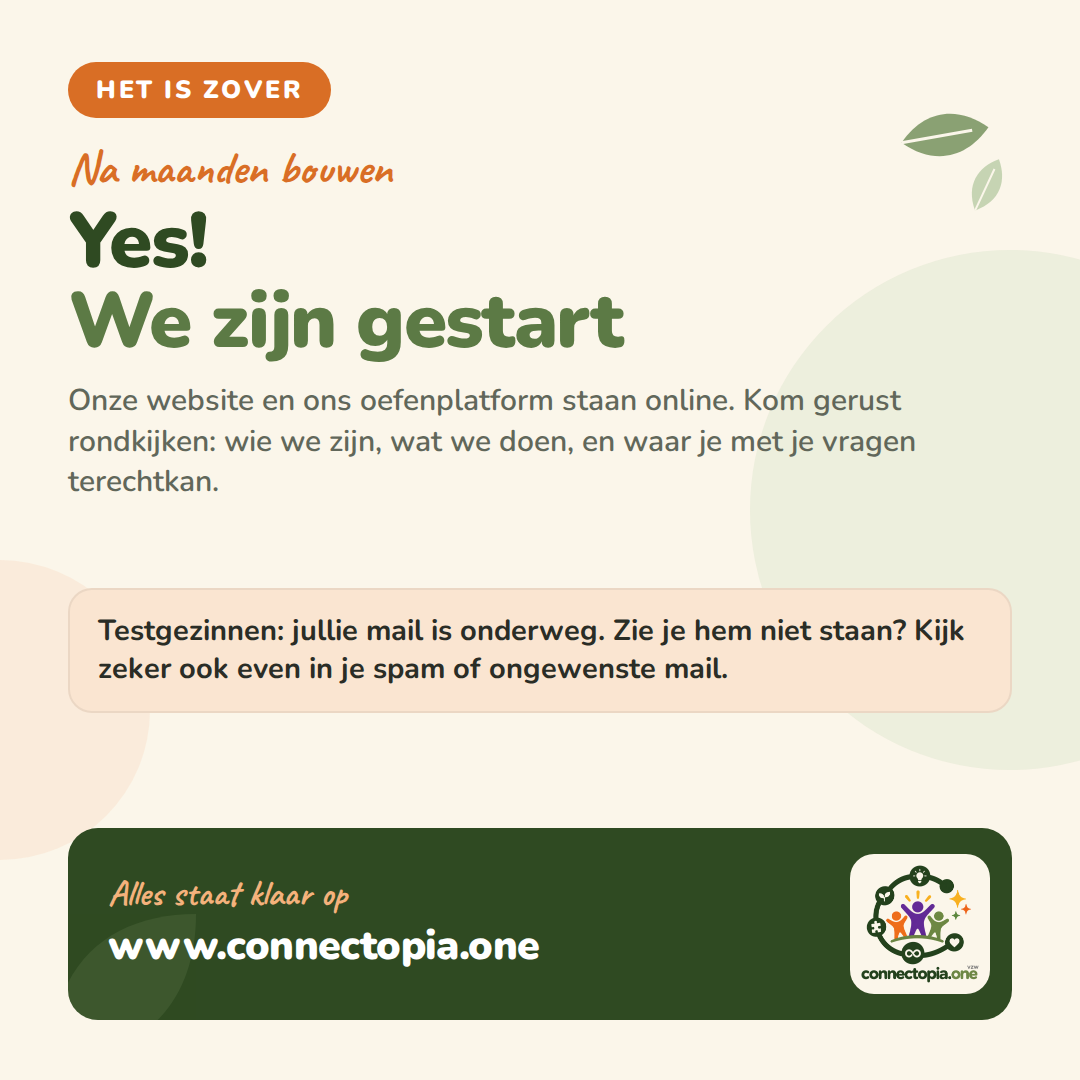
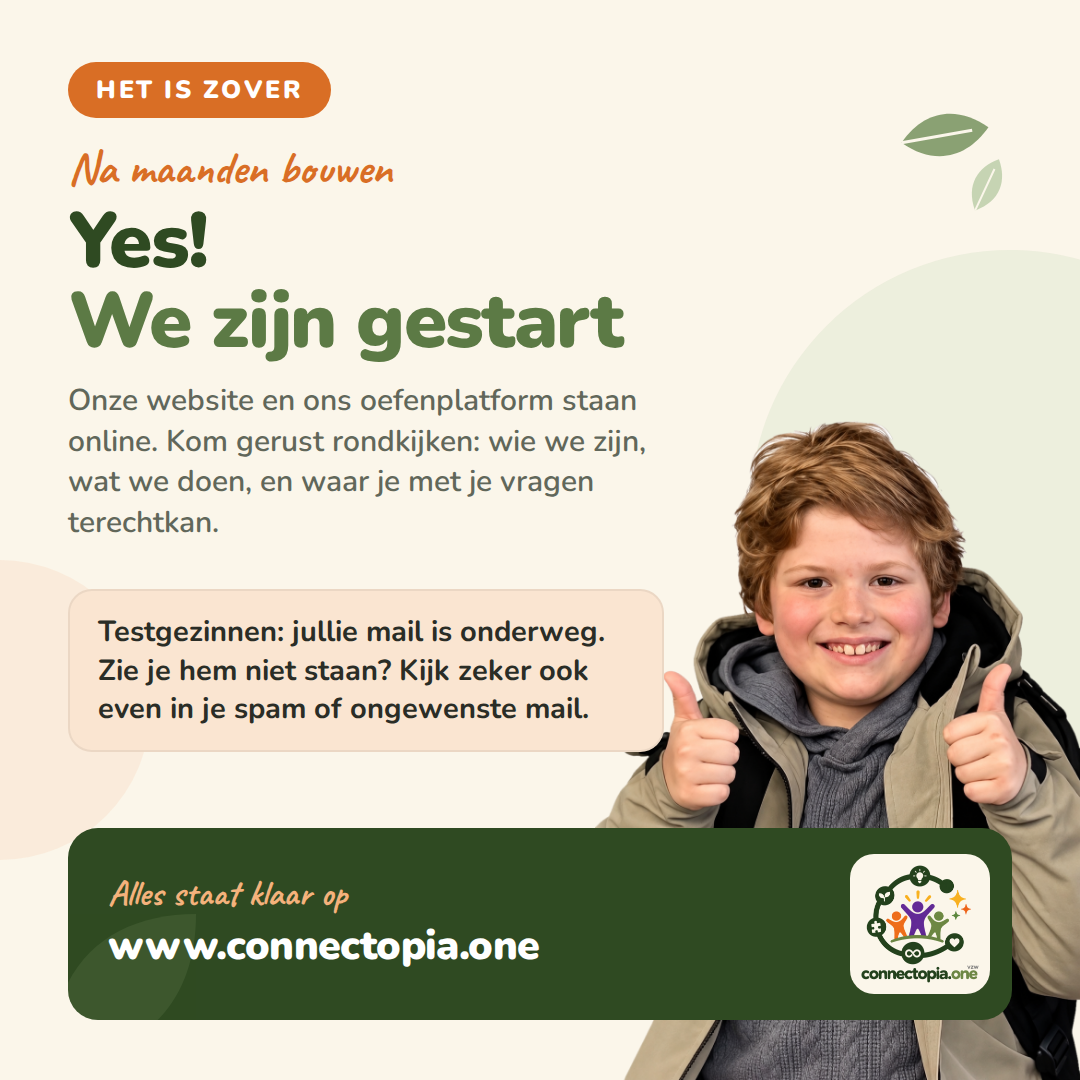
Kim's zoon in de startpost, en figuren in het postsjabloon
Kim stuurde een foto van hun zoon met twee duimen omhoog, om de post
persoonlijker te maken.

De witte achtergrond is weggesneden met een vlakvulling vanaf de rand, zodat
het wit binnenin (zijn tanden, de lichtvlek op zijn jas) blijft staan. Daarna
een pixel naar binnen geschoven en licht vervaagd, anders blijft er een witte
zoom rond de uitsnede.

Het postsjabloon kent nu `figuur`: een uitgeknipte png rechtsonder, met de
tekst links smaller zodat ze er niet achter loopt. Hij staat in de hoek en
loopt door achter de groene balk. Eindigt hij er net boven, dan zie je de
rechte onderrand van de uitsnede en lijkt hij afgeknipt.

Claude-Session: https://claude.ai/code/session_01RndGgwwLWLzzwjpvUTuHxJ

Changed region(s): [[0.0611, 0.3667, 1.0, 1.0]]

diff --git a/social/posts/bron/stijl.css b/social/posts/bron/stijl.css
@@ -140,3 +140,18 @@ body.metfoto main { padding-top: 34px; }
 }
 .laden .balk span { display: block; height: 100%; border-radius: 999px; background: var(--accent); }
 .laden .onder { margin-top: 16px; font-weight: 700; font-size: 27px; color: var(--ink-dim); }
+
+/*
+  Een uitgeknipte figuur rechtsonder, bijvoorbeeld een kind met de duimen
+  omhoog. De tekst links wordt dan smaller gehouden, anders loopt ze achter
+  de figuur. De figuur staat net boven de groene balk.
+*/
+/*
+  Hij staat in de rechteronderhoek en loopt met opzet dóór achter de groene
+  balk (z-index 1, de balk staat op 2). Zou hij er net boven eindigen, dan zie
+  je de rechte onderrand van de uitsnede liggen en lijkt hij afgeknipt.
+*/
+.figuur { position: absolute; right: 0; bottom: 0; height: 660px; z-index: 1; }
+body.metfiguur .kop p,
+body.metfiguur .mid { max-width: 596px; }
+

diff --git a/social/posts/bron/posts.js b/social/posts/bron/posts.js
@@ -16,6 +16,8 @@
     woorden   korte woorden in bolletjes: { ic, tekst }
     titelKlein  zet de titel wat kleiner als hij lang is
     foto      een foto bovenaan, met de bestandsnaam uit deze map
+    figuur    een uitgeknipte figuur rechtsonder (een png met doorzichtige
+              achtergrond uit deze map); de tekst links wordt dan smaller
     fotoPositie  welk stuk van de foto je ziet, bv. "50% 30%"
     laden     een laadbalk: { naam, procent, onder } — voor een post over
               iets dat er bijna is
@@ -30,6 +32,7 @@ module.exports = [
   {
     bestand: "we-zijn-gestart",
     kleur: "oranje",
+    figuur: "zoon-duimen.png",
     pil: "Het is zover",
     hand: "Na maanden bouwen",
     titel: "Yes!<br><span>We zijn gestart</span>",

diff --git a/social/posts/bron/render.js b/social/posts/bron/render.js
@@ -57,7 +57,8 @@ function blad(p) {
 <title>${p.bestand}</title>
 <link rel="stylesheet" href="stijl.css">
 </head>
-<body class="${[kleuren[p.kleur], p.foto ? 'metfoto' : ''].filter(Boolean).join(' ')}">
+<body class="${[kleuren[p.kleur], p.foto ? 'metfoto' : '', p.figuur ? 'metfiguur' : ''].filter(Boolean).join(' ')}">
+${p.figuur ? `  <img class="figuur" src="${p.figuur}" alt="">` : ''}
 ${p.foto ? `
   <div class="hero">
     <img src="${p.foto}" alt="" style="object-position: ${p.fotoPositie || '50% 45%'}">
